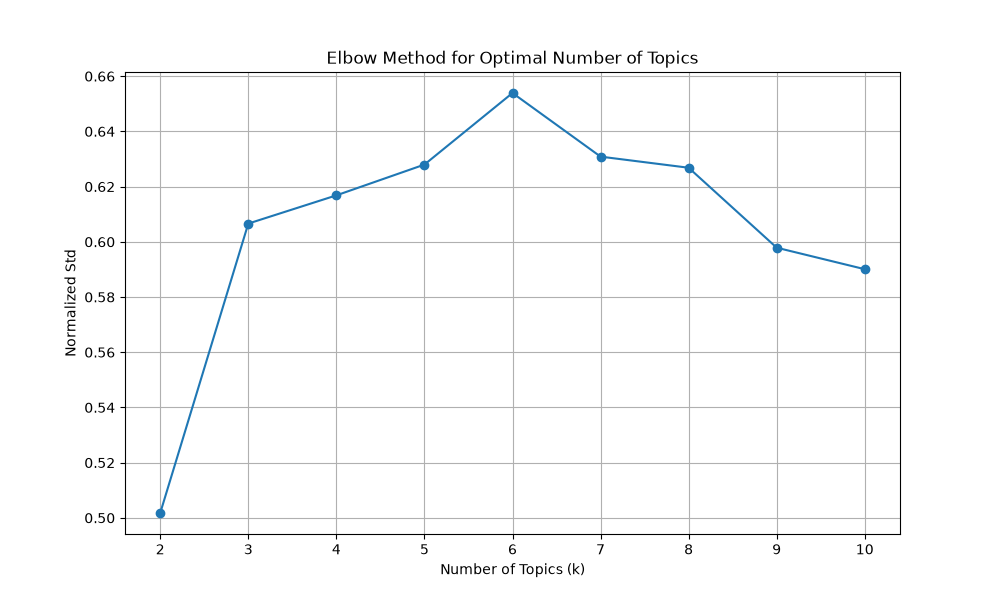
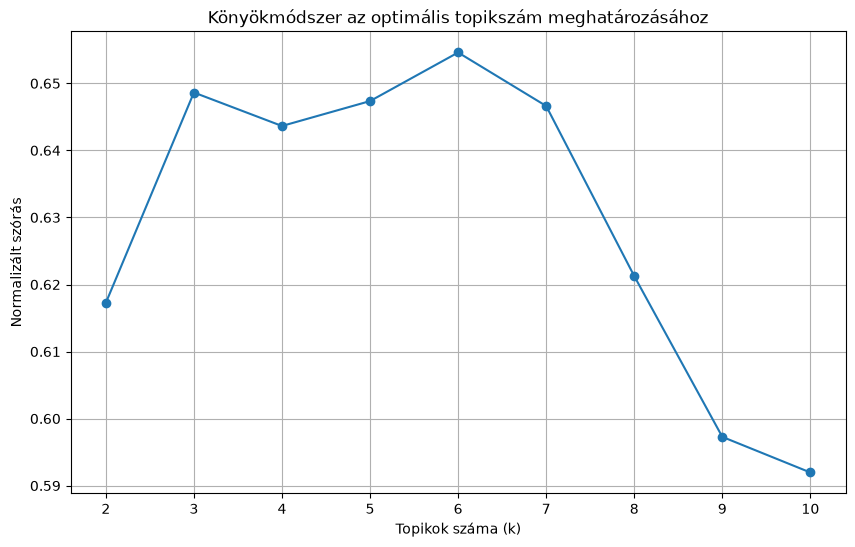
Refreshed charts with hungarian labels

diff --git a/utils.py b/utils.py
@@ -1,6 +1,7 @@
 """
 The following functions are not used in the main.py file but are useful for analyzing results.
-Run this file directly to create the coherence and elbow graphs for 2024 and 2025.
+Run this file directly to create the coherence graph for 2024 and 2025.
+The elbow graph call is commented out at the bottom of the file, uncomment it to create the elbow graph as well.
 
 Use-cases:
  - Determine the optimal number of topics for LDA using the elbow method
@@ -11,8 +12,9 @@ Input:
     - Processed data for each year from main.py: process_outputs/processed_data_{year}.json
 
 Generated outputs (in process_outputs/):
-    - Elbow graph: elbow_graph.png (elbow_graph_bigrams.png when bigrams are used)
     - Coherence graph: coherence_graph.png
+    - Elbow graph (only if its call is uncommented): elbow_graph.png (elbow_graph_bigrams.png when bigrams are used)
+    - The graph labels are in Hungarian
 
 Settings that differ from main.py:
     - The elbow graph models use random_state=10, the coherence graph models use random_state=42
@@ -219,6 +221,6 @@ def topic_stats(results_df: pd.DataFrame) -> dict[str, float]:
 if __name__ == "__main__":
     data = get_data([2024, 2025])
     coherence_data = create_coherence_graph(data, max_topics=10, use_cv=True)
-    elbow_data = create_elbow_graph(data,max_topics=10, bigrams=False)
+    #elbow_data = create_elbow_graph(data,max_topics=10, bigrams=False)
     print(f"Coherence Data: {coherence_data}")
-    print(f"Elbow Data: {elbow_data}")
+    #print(f"Elbow Data: {elbow_data}")

diff --git a/README.md b/README.md
@@ -71,6 +71,7 @@ A filing is skipped, and the reason is recorded, when:
 - **Skipped companies:** counted by reason and by industry (SIC description), saved as tables and shown in two charts.
   Every skipped filing is counted, so a company skipped in both years counts once in each year.
   In the charts the three rare reasons (wrong start, too long, missing section end) are merged into "other".
+  The chart titles, axis labels and reasons are in Hungarian (e.g. "other" is "Egyéb"), the industry names stay in English.
   - *All skipped filings:* count per reason, and the 10 industries with the most skipped filings, each bar stacked by reason.
   - *By year:* the share of all filings skipped for each reason, and the share of each industry's filings skipped,
     2024 and 2025 side by side. Shares are used instead of counts, because the number of filings differs between
@@ -138,11 +139,15 @@ The number of passes and iterations can be changed with `LDA_MODEL_PASSES` and `
 python utils.py
 ```
 
-This trains LDA for k = 2 to 10 on the processed data of both years and draws two graphs:
+This trains LDA for k = 2 to 10 on the processed data of both years and draws the coherence graph:
 
-- **Coherence graph:** u_mass and c_v topic coherence for each k. Higher c_v and u_mass closer to 0 are better.
-- **Elbow graph:** how concentrated the companies' topic probabilities are for each k (1 = every company belongs
-  fully to one topic, 0 = evenly spread). The bend of the curve suggests a suitable k.
+- **Coherence graph** (`coherence_graph.png`): u_mass and c_v topic coherence for each k. Higher c_v and u_mass
+  closer to 0 are better.
+- **Elbow graph** (`elbow_graph.png`): how concentrated the companies' topic probabilities are for each k
+  (1 = every company belongs fully to one topic, 0 = evenly spread). The bend of the curve suggests a suitable k.
+  Its call is commented out at the bottom of [utils.py](utils.py), uncomment it to draw this graph as well.
+
+The graph labels are in Hungarian.
 
 `main.py` has to be run once before, so that `process_outputs/processed_data_{year}.json` exists.
 [utils.py](utils.py) also contains `topic_stats`, which calculates the share of companies whose topic did not change
@@ -165,7 +170,7 @@ Every run writes to `process_outputs/` (not tracked by git):
 | `reason_counts.csv`, `industry_counts.csv` | skipped companies by reason and by industry |
 | `skipped_companies_counts.png` | chart of all skipped filings by reason, and the top 10 industries with each bar stacked by reason |
 | `skipped_companies_rates_by_year.png` | chart of the share of filings skipped by reason and in the top 10 industries, 2024 vs 2025 |
-| `elbow_graph.png`, `coherence_graph.png` | graphs from `utils.py` |
+| `coherence_graph.png`, `elbow_graph.png` | graphs from `utils.py` (the elbow graph only if its call is uncommented) |
 
 The chi-square statistic, p-value, Cramér's V and the skipped company counts by reason and by industry
 are printed to the console.
@@ -176,7 +181,7 @@ The [output/](output/) folder holds the results used in the thesis:
 
 | Folder | Content |
 |---|---|
-| `data (for all)` | filtering and skipped company results, and the graphs used to choose k. These are the same for every LDA setting |
+| `data (for all)` | filtering and skipped company results, the skipped company charts, and the graphs used to choose k (`coherence_graph.png`, `elbow_graph.png`). These are the same for every LDA setting |
 | `no bigram, together` | single words, one model for both years |
 | `no bigram, separate` | single words, one model per year |
 | `bigram, together` | bigrams, one model for both years |
